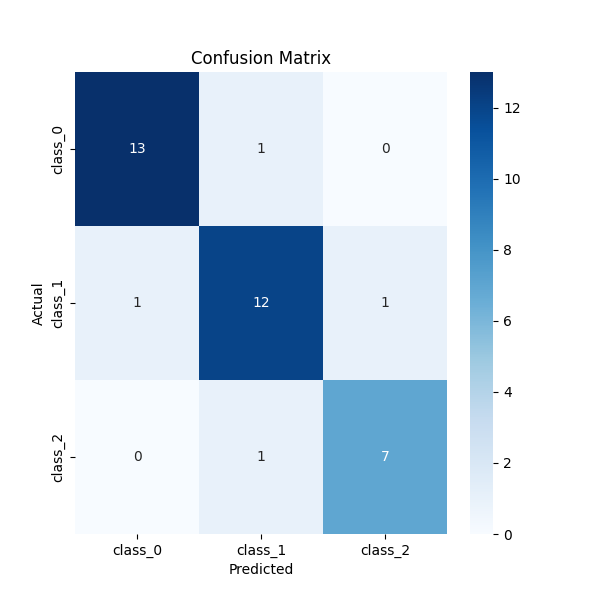
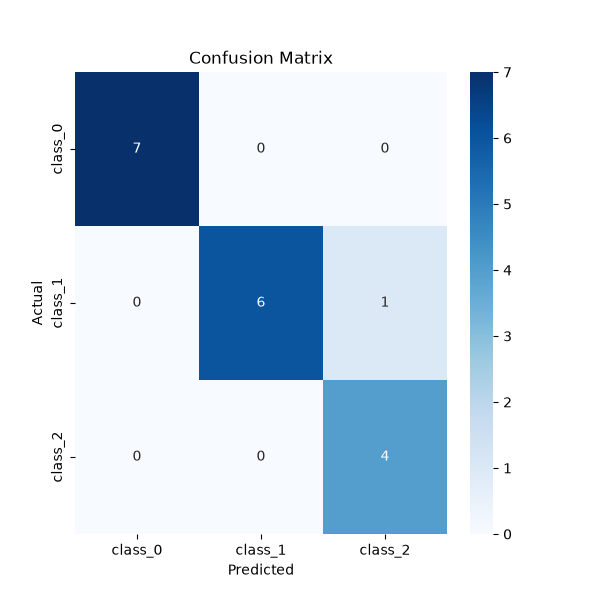
Final commit

diff --git a/DB_access.py b/DB_access.py
@@ -1,0 +1,67 @@
+# SQLite Viewer extention is also available to check db
+import sqlite3
+import pandas as pd
+
+
+
+"""
+conn = sqlite3.connect("mlflow.db")
+
+tables = pd.read_sql(
+    "SELECT name FROM sqlite_master WHERE type='table';",
+    conn
+)
+
+print(tables)
+
+df = pd.read_sql("SELECT * FROM experiments;", conn)
+print(df)
+
+"""
+
+
+
+#View all metrics
+"""
+
+conn = sqlite3.connect("mlflow.db")
+
+df = pd.read_sql("SELECT * FROM metrics;", conn)
+
+print(df)
+
+conn.close()
+"""
+
+
+
+#See all available tables
+"""
+
+conn = sqlite3.connect("mlflow.db")
+
+cursor = conn.cursor()
+
+cursor.execute("SELECT name FROM sqlite_master WHERE type='table';")
+
+for table in cursor.fetchall():
+    print(table[0])
+
+conn.close()
+"""
+
+
+
+
+#See all metrics for each run
+conn = sqlite3.connect("mlflow.db")
+
+df = pd.read_sql("""
+SELECT run_uuid, key, value
+FROM metrics
+ORDER BY run_uuid;
+""", conn)
+
+print(df)
+
+conn.close()

diff --git a/Module_0.md b/Module_0.md
@@ -1,0 +1,43 @@
+MLflow/
+│
+├──  Module 01: Why MLflow Exists (Foundation)
+├──  Module 02: MLflow Tracking
+├──  Module 03: MLflow UI
+├──  Module 04: Searching Runs
+├──  Module 05: Autologging
+│
+├──  Model Management
+│   ├──  Module 06: Model Logging
+│   ├──  Module 07: Model Signature
+│   ├──  Module 08: Input Example
+│   ├──  Module 09: Model Metadata
+│   ├──  Module 10: MLflow Models
+│   ├──  Module 11: MLmodel File
+│   ├──  Module 12: Model Flavors
+│   ├──  Module 13: PyFunc
+│   ├──  Module 14: Custom Python Models
+│   └──  Module 15: Model Registry
+│
+├──  Deployment & Production
+│   ├──  Module 16: Model Versioning
+│   ├──  Module 17: Model Serving
+│   ├──  Module 18: MLflow Projects
+│   ├──  Module 19: Environment Management
+│   ├──  Module 20: MLflow CLI
+│   ├──  Module 21: Backend Store
+│   ├──  Module 22: Artifact Store
+│   ├──  Module 23: Tracking Server
+│   ├──  Module 24: Remote Tracking
+│   └──  Module 25: Deployment Architecture
+│
+├──  Integrations & Advanced Topics
+│   ├──  Module 26: Integration with DVC
+│   ├──  Module 27: Integration with Git
+│   ├──  Module 28: Hyperparameter Tuning
+│   ├──  Module 29: Deep Learning Logging
+│   ├──  Module 30: Production Best Practices
+│   ├──  Module 31: Common Interview Questions
+│   ├──  Module 32: End-to-End MLflow Project
+│   └──  Module 33: MLflow Internal Working
+│
+└──  MLflow Roadmap Complete